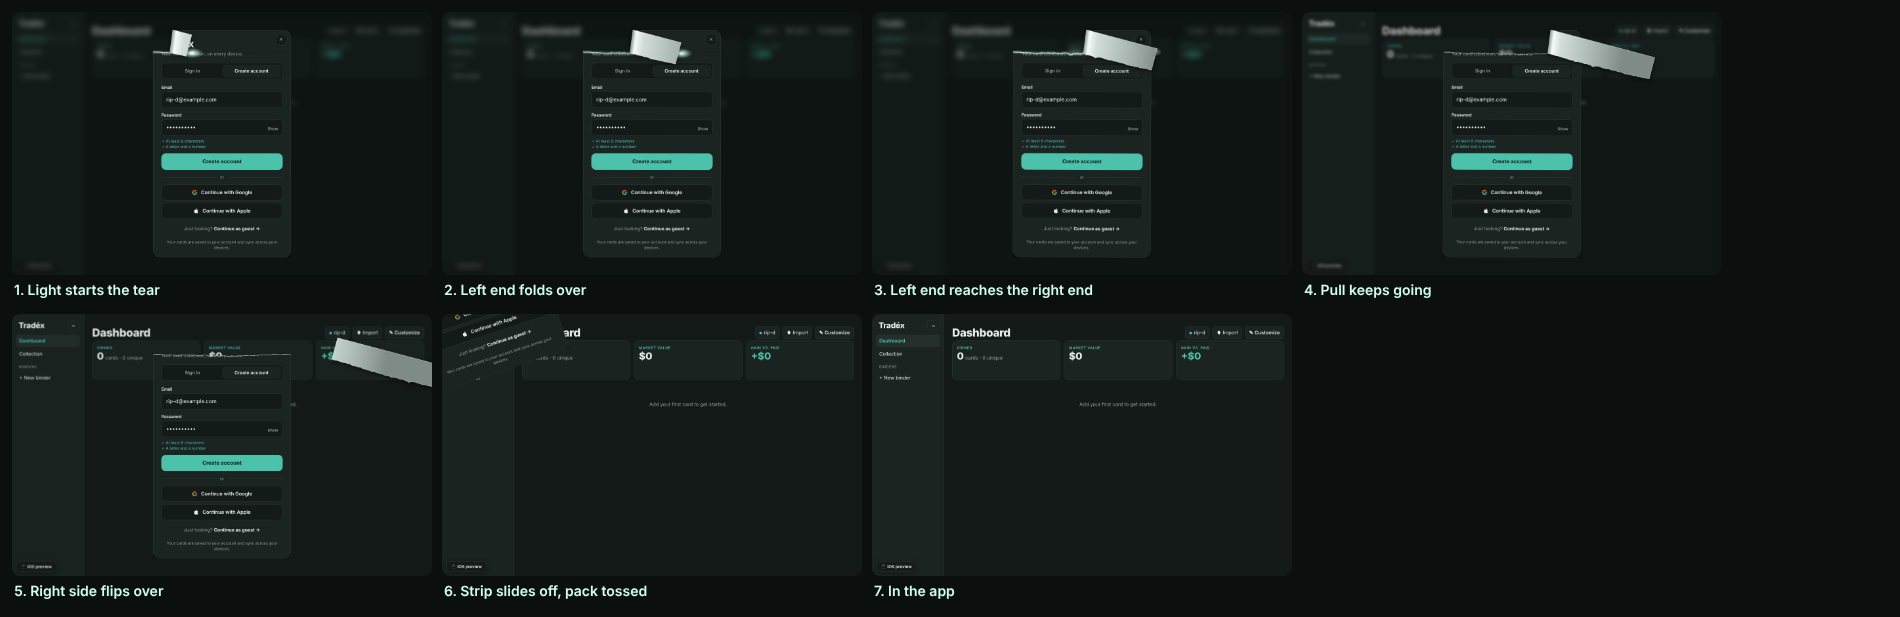
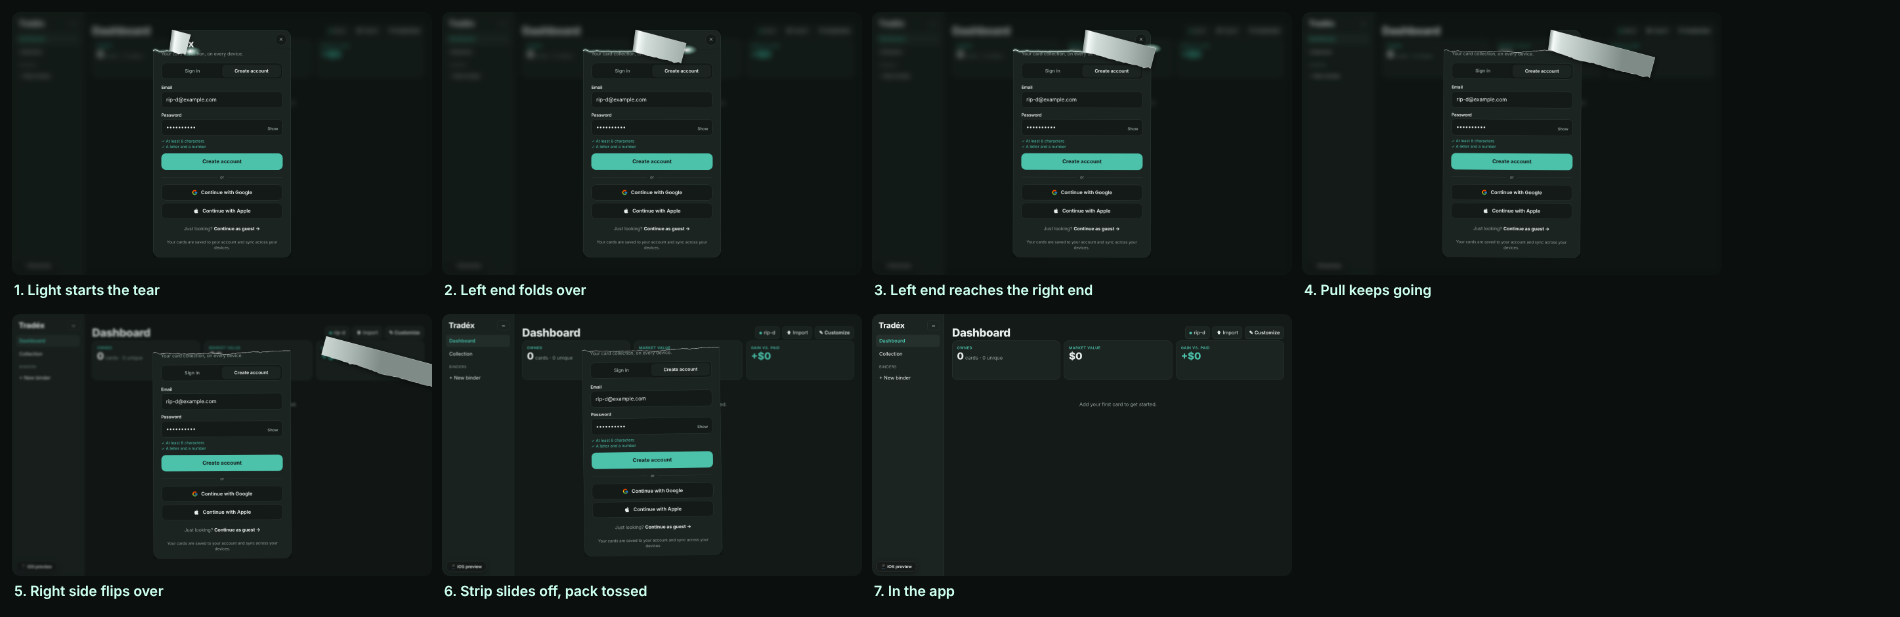
Speed up the rip a bit more
Claude-Session: https://claude.ai/code/session_01K6ofJxh6QarDQ2gKnJ83gJ

diff --git a/js/account.js b/js/account.js
@@ -249,7 +249,7 @@ function lift(rip){const g=$('#txa');if(!g||g.classList.contains('clear'))return
   v.style.cssText=`position:absolute;left:0;top:0;width:100%;height:${cut+12}px;pointer-events:none;overflow:visible`;
   v.innerHTML=`<polyline points="${pts.map(([x,y])=>x+','+y).join(' ')}" fill="none" stroke="rgba(255,255,255,.6)" stroke-width="1.6" vector-effect="non-scaling-stroke" stroke-linejoin="bevel"/>`;return v};
  const at=x=>{for(let i=1;i<pts.length;i++)if(pts[i][0]>=x){const[a,b]=[pts[i-1],pts[i]];return b[0]===a[0]?b[1]:a[1]+(b[1]-a[1])*(x-a[0])/(b[0]-a[0])}return pts[pts.length-1][1]};
- const wrap=document.createElement('div'),SW=1150,W=r.width,PX=pts.map(([x,y])=>[x/100*W,y]);wrap.setAttribute('aria-hidden','true');
+ const wrap=document.createElement('div'),SW=1000,W=r.width,PX=pts.map(([x,y])=>[x/100*W,y]);wrap.setAttribute('aria-hidden','true');
  Object.assign(wrap.style,{position:'fixed',left:r.left+'px',top:r.top+'px',width:W+'px',height:r.height+'px',pointerEvents:'none',zIndex:1,overflow:'visible',transformOrigin:`100% ${cut}px`});
  // The torn-off title strip stays one piece: the part not yet folded is the card itself, and the part folded over
  // is its mirror image across a slanted crease, drawn as the silver inside of the foil draping down over the right side.
